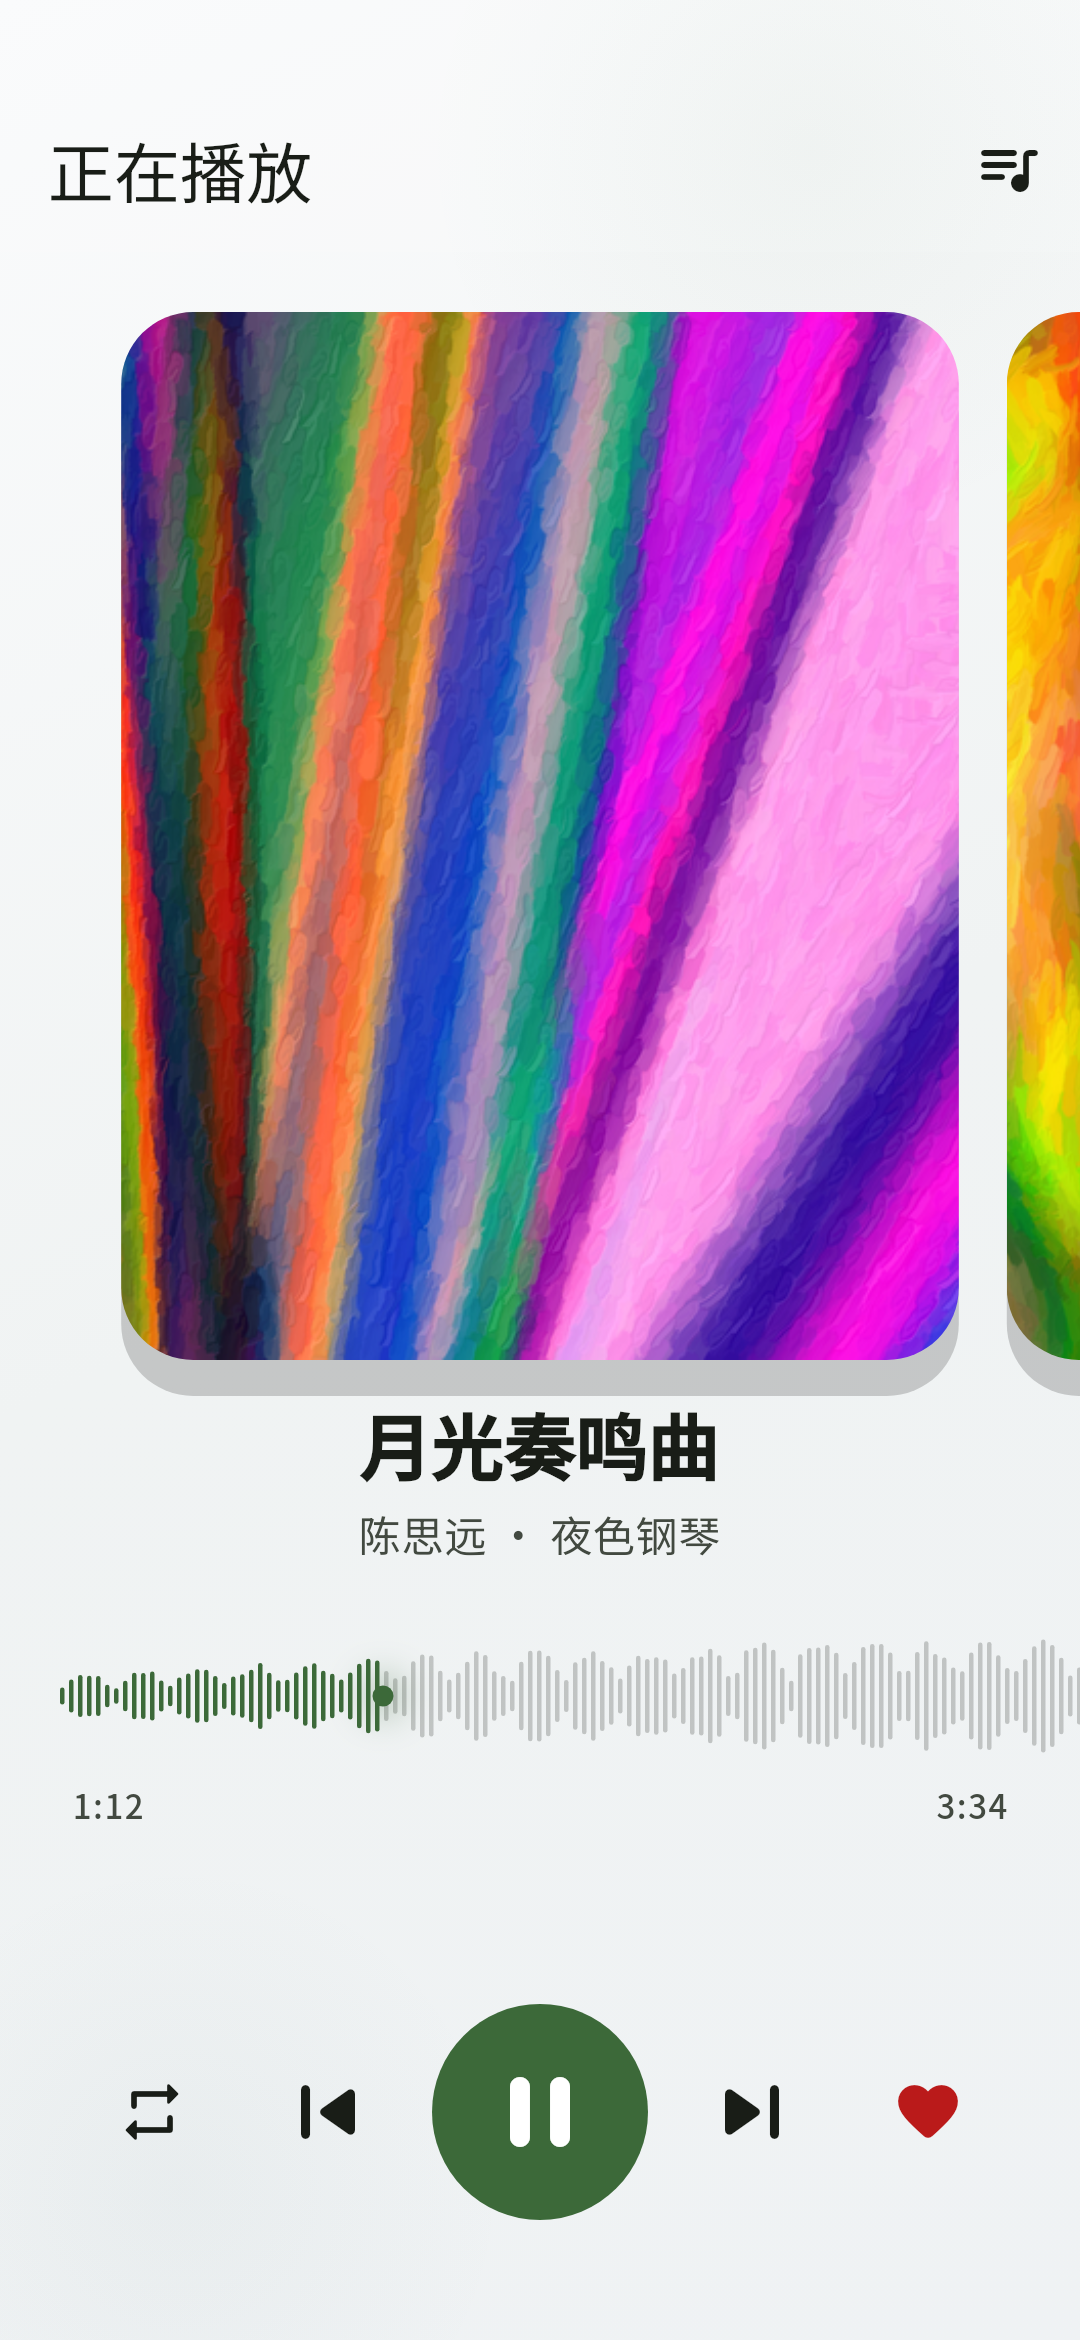
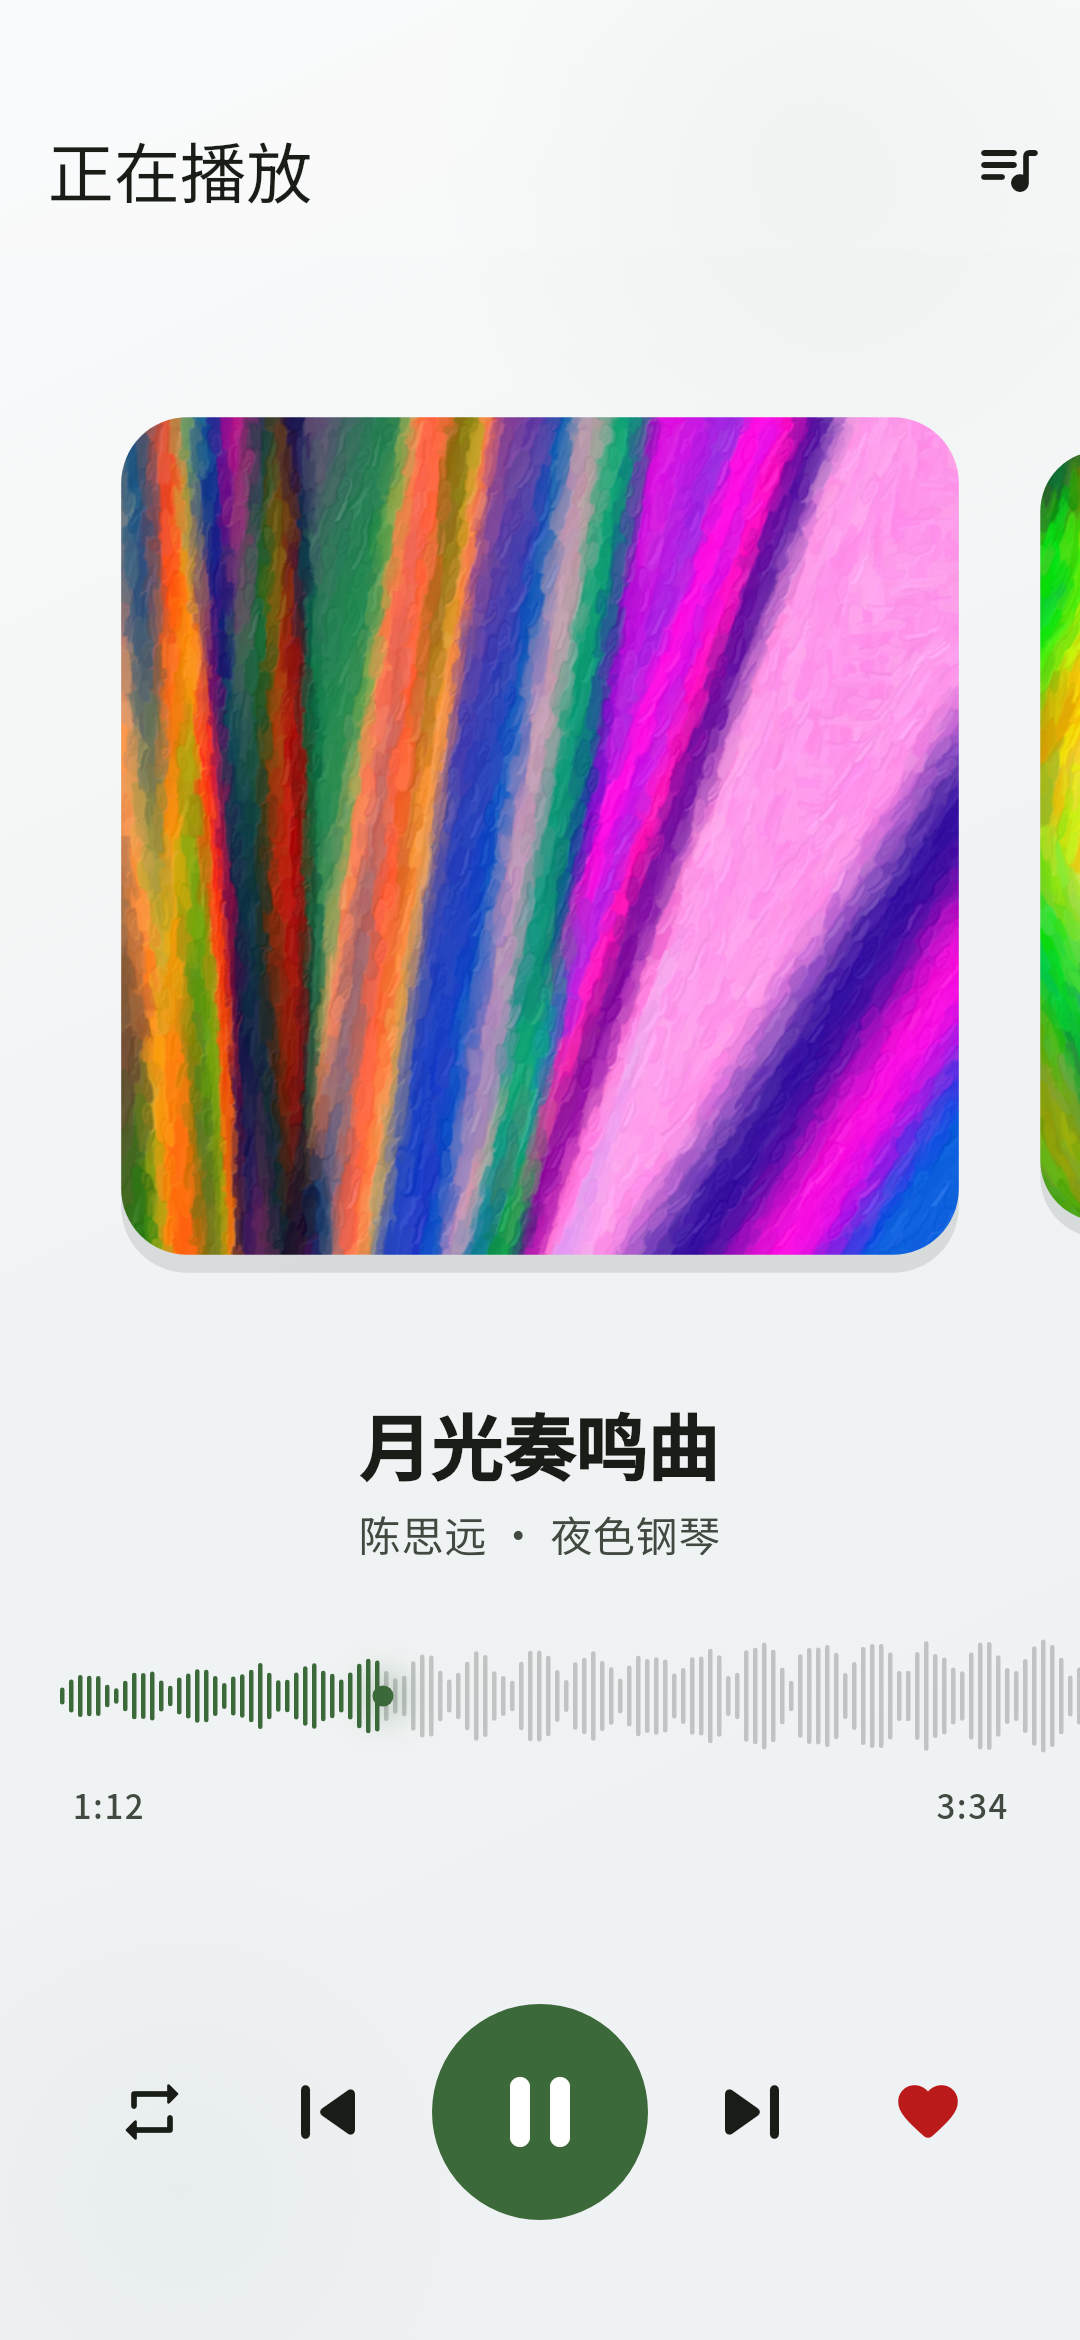
fix(music): Now Playing 纯正方封面、去黑底与 OLED 真黑

diff --git a/lib/music/ui/now_playing_page.dart b/lib/music/ui/now_playing_page.dart
@@ -1,3 +1,4 @@
+import 'dart:math' as math;
 import 'dart:typed_data';
 
 import 'package:flutter/material.dart';
@@ -100,6 +101,7 @@ class _NowPlayingPageState extends ConsumerState<NowPlayingPage> {
     final peaks = peakKey == null ? null : _peakCache[peakKey];
 
     return GlassScaffoldBackground(
+      oledTrueBlack: true,
       child: Scaffold(
         backgroundColor: Colors.transparent,
         appBar: GlassAppBar(
@@ -119,40 +121,53 @@ class _NowPlayingPageState extends ConsumerState<NowPlayingPage> {
                   children: [
                     const SizedBox(height: 8),
                     // Large cover carousel (Harmonoid) — swipe = prev/next.
+                    // Explicit square geometry (not AspectRatio-in-tall-slot).
                     Expanded(
                       flex: 5,
-                      child: PageView.builder(
-                        controller: _pageController,
-                        itemCount: queue.length,
-                        onPageChanged: (i) async {
-                          if (i == index) return;
-                          final h = await ref.read(musicHandlerProvider.future);
-                          await h.playTrackAt(i);
-                        },
-                        itemBuilder: (context, i) {
-                          final t = queue[i];
-                          return Padding(
-                            padding: const EdgeInsets.symmetric(
-                              horizontal: 8,
-                              vertical: 12,
-                            ),
-                            child: GestureDetector(
-                              onDoubleTap: () async {
-                                await ref
-                                    .read(musicLibraryProvider.notifier)
-                                    .toggleFavorite(t);
-                                if (context.mounted) {
-                                  ScaffoldMessenger.of(context).showSnackBar(
-                                    SnackBar(
-                                      content: Text(
-                                        t.isFavorite ? ms.unfavorite : ms.favorite,
-                                      ),
-                                    ),
-                                  );
-                                }
-                              },
-                              child: _HeroCover(path: t.coverPath),
-                            ),
+                      child: LayoutBuilder(
+                        builder: (context, constraints) {
+                          return PageView.builder(
+                            controller: _pageController,
+                            itemCount: queue.length,
+                            onPageChanged: (i) async {
+                              if (i == index) return;
+                              final h =
+                                  await ref.read(musicHandlerProvider.future);
+                              await h.playTrackAt(i);
+                            },
+                            itemBuilder: (context, i) {
+                              final t = queue[i];
+                              final active = i == index;
+                              return Padding(
+                                padding:
+                                    const EdgeInsets.symmetric(horizontal: 8),
+                                child: GestureDetector(
+                                  onDoubleTap: () async {
+                                    await ref
+                                        .read(musicLibraryProvider.notifier)
+                                        .toggleFavorite(t);
+                                    if (context.mounted) {
+                                      ScaffoldMessenger.of(context)
+                                          .showSnackBar(
+                                        SnackBar(
+                                          content: Text(
+                                            t.isFavorite
+                                                ? ms.unfavorite
+                                                : ms.favorite,
+                                          ),
+                                        ),
+                                      );
+                                    }
+                                  },
+                                  child: _HeroCover(
+                                    path: t.coverPath,
+                                    active: active,
+                                    slotWidth: constraints.maxWidth,
+                                    slotHeight: constraints.maxHeight,
+                                  ),
+                                ),
+                              );
+                            },
                           );
                         },
                       ),
@@ -338,44 +353,72 @@ class _NowPlayingPageState extends ConsumerState<NowPlayingPage> {
   }
 }
 
+/// Strict 1:1 cover floated on the theme canvas — no black tray / heavy shadow.
 class _HeroCover extends StatelessWidget {
-  const _HeroCover({required this.path});
+  const _HeroCover({
+    required this.path,
+    required this.active,
+    required this.slotWidth,
+    required this.slotHeight,
+  });
+
   final String? path;
+  final bool active;
+  final double slotWidth;
+  final double slotHeight;
 
   @override
   Widget build(BuildContext context) {
     final cs = Theme.of(context).colorScheme;
-    return AspectRatio(
-      aspectRatio: 1,
-      child: DecoratedBox(
-        decoration: BoxDecoration(
-          borderRadius: BorderRadius.circular(24),
-          boxShadow: [
-            BoxShadow(
-              color: cs.shadow.withValues(
-                alpha: Theme.of(context).brightness == Brightness.dark
-                    ? 0.45
-                    : 0.18,
-              ),
-              blurRadius: 24,
-              offset: const Offset(0, 12),
-            ),
-          ],
-        ),
-        child: ClipRRect(
-          borderRadius: BorderRadius.circular(24),
-          child: CoverImage(
-            path: path,
-            placeholder: ColoredBox(
-              color: cs.primaryContainer,
+    final isDark = Theme.of(context).brightness == Brightness.dark;
+    // PageView page width ≈ viewportFraction * slot; keep square in remaining height.
+    final pageWidth = slotWidth * 0.82 - 16; // viewportFraction + horizontal pad
+    final side = math.min(pageWidth, slotHeight).clamp(0.0, double.infinity);
+    final scale = active ? 1.0 : 0.92;
+
+    Widget cover = SizedBox(
+      width: side,
+      height: side,
+      child: ClipRRect(
+        borderRadius: BorderRadius.circular(22),
+        child: CoverImage(
+          path: path,
+          fit: BoxFit.cover,
+          placeholder: ColoredBox(
+            color: cs.primaryContainer,
+            child: Center(
               child: Icon(
                 Icons.album_rounded,
-                size: 96,
+                size: side * 0.28,
                 color: cs.onPrimaryContainer.withValues(alpha: 0.7),
               ),
             ),
           ),
         ),
+      ),
+    );
+
+    // Light mode only: hairline soft lift. Dark/OLED: no shadow tray.
+    if (!isDark) {
+      cover = DecoratedBox(
+        decoration: BoxDecoration(
+          borderRadius: BorderRadius.circular(22),
+          boxShadow: [
+            BoxShadow(
+              color: cs.shadow.withValues(alpha: 0.10),
+              blurRadius: 14,
+              offset: const Offset(0, 6),
+            ),
+          ],
+        ),
+        child: cover,
+      );
+    }
+
+    return Center(
+      child: Transform.scale(
+        scale: scale,
+        child: cover,
       ),
     );
   }

diff --git a/lib/presentation/widgets/glass_scaffold_bg.dart b/lib/presentation/widgets/glass_scaffold_bg.dart
@@ -7,57 +7,73 @@ import '../../core/theme/app_theme.dart';
 /// Light mode uses neutral cool whites with a very light primary/tertiary tint.
 /// Dark mode stays near-black cool neutrals — seed primary/tertiary only whisper
 /// so a green seed does not turn the canvas into mud.
+///
+/// Pass [oledTrueBlack] on fullscreen music pages (Now Playing, etc.) so dark
+/// mode uses pure `#000000` with no colored wash orbs — better for OLED (G8).
 class GlassScaffoldBackground extends StatelessWidget {
-  const GlassScaffoldBackground({super.key, required this.child});
+  const GlassScaffoldBackground({
+    super.key,
+    required this.child,
+    this.oledTrueBlack = false,
+  });
 
   final Widget child;
+
+  /// Dark-only: pure black canvas, no gradient tint / wash orbs.
+  final bool oledTrueBlack;
 
   @override
   Widget build(BuildContext context) {
     final cs = Theme.of(context).colorScheme;
     final isDark = Theme.of(context).brightness == Brightness.dark;
+    final trueBlack = oledTrueBlack && isDark;
+    final base = trueBlack ? AppTheme.oledBlack : (isDark ? AppTheme.darkCanvas : AppTheme.lightCanvas);
+
     return Stack(
       fit: StackFit.expand,
       children: [
         // Solid base first — prevents a white flash if the gradient rebuilds
         // during ThemeMode switches (tab content fades over this canvas).
-        ColoredBox(color: isDark ? AppTheme.darkCanvas : AppTheme.lightCanvas),
-        DecoratedBox(
-          decoration: BoxDecoration(
-            gradient: LinearGradient(
-              begin: Alignment.topLeft,
-              end: Alignment.bottomRight,
-              colors: isDark
-                  ? [
-                      AppTheme.darkCanvas,
-                      Color.lerp(AppTheme.darkContainerLow, cs.primary, 0.055)!,
-                      Color.lerp(AppTheme.darkCanvas, cs.tertiary, 0.035)!,
-                    ]
-                  : [
-                      AppTheme.lightCanvas,
-                      Color.lerp(AppTheme.lightCanvasMid, cs.primary, 0.035)!,
-                      Color.lerp(AppTheme.lightCanvasDeep, cs.tertiary, 0.03)!,
-                    ],
+        ColoredBox(color: base),
+        if (!trueBlack)
+          DecoratedBox(
+            decoration: BoxDecoration(
+              gradient: LinearGradient(
+                begin: Alignment.topLeft,
+                end: Alignment.bottomRight,
+                colors: isDark
+                    ? [
+                        AppTheme.darkCanvas,
+                        Color.lerp(AppTheme.darkContainerLow, cs.primary, 0.055)!,
+                        Color.lerp(AppTheme.darkCanvas, cs.tertiary, 0.035)!,
+                      ]
+                    : [
+                        AppTheme.lightCanvas,
+                        Color.lerp(AppTheme.lightCanvasMid, cs.primary, 0.035)!,
+                        Color.lerp(AppTheme.lightCanvasDeep, cs.tertiary, 0.03)!,
+                      ],
+              ),
             ),
           ),
-        ),
-        // Gentle wash orbs — restrained alpha (especially dark).
-        Positioned(
-          top: -80,
-          right: -40,
-          child: _WashOrb(
-            diameter: 260,
-            color: cs.primary.withValues(alpha: isDark ? 0.07 : 0.045),
+        // Gentle wash orbs — restrained alpha (especially dark). Skipped on OLED.
+        if (!trueBlack) ...[
+          Positioned(
+            top: -80,
+            right: -40,
+            child: _WashOrb(
+              diameter: 260,
+              color: cs.primary.withValues(alpha: isDark ? 0.07 : 0.045),
+            ),
           ),
-        ),
-        Positioned(
-          bottom: -60,
-          left: -50,
-          child: _WashOrb(
-            diameter: 220,
-            color: cs.tertiary.withValues(alpha: isDark ? 0.05 : 0.04),
+          Positioned(
+            bottom: -60,
+            left: -50,
+            child: _WashOrb(
+              diameter: 220,
+              color: cs.tertiary.withValues(alpha: isDark ? 0.05 : 0.04),
+            ),
           ),
-        ),
+        ],
         child,
       ],
     );

diff --git a/lib/core/theme/app_theme.dart b/lib/core/theme/app_theme.dart
@@ -33,15 +33,18 @@ class AppTheme {
   static const Color lightCanvasMid = Color(0xFFF7F8FA);
   static const Color lightCanvasDeep = Color(0xFFF5F6F8);
 
-  /// Near-black cool scaffold (not pure #000).
-  static const Color darkCanvas = Color(0xFF0E1012);
-  static const Color darkSurfaceDim = Color(0xFF0A0C0E);
-  static const Color darkSurfaceBright = Color(0xFF1A1D21);
-  static const Color darkContainerLowest = Color(0xFF090B0D);
-  static const Color darkContainerLow = Color(0xFF14171A);
-  static const Color darkContainer = Color(0xFF191C20);
-  static const Color darkContainerHigh = Color(0xFF1F2328);
-  static const Color darkContainerHighest = Color(0xFF252A30);
+  /// OLED true black — Now Playing / fullscreen music canvases.
+  static const Color oledBlack = Color(0xFF000000);
+
+  /// Near-true-black cool scaffold (OLED-friendly; cards use elevated containers).
+  static const Color darkCanvas = Color(0xFF000000);
+  static const Color darkSurfaceDim = Color(0xFF000000);
+  static const Color darkSurfaceBright = Color(0xFF16191D);
+  static const Color darkContainerLowest = Color(0xFF000000);
+  static const Color darkContainerLow = Color(0xFF121518);
+  static const Color darkContainer = Color(0xFF181B1F);
+  static const Color darkContainerHigh = Color(0xFF1E2227);
+  static const Color darkContainerHighest = Color(0xFF24292F);
   static const Color darkOnSurface = Color(0xFFE6E8EB);
   static const Color darkOnSurfaceVariant = Color(0xFFB0B6BE);
   static const Color darkOutline = Color(0xFF8A9099);
@@ -404,7 +407,7 @@ class GlassSurface extends StatelessWidget {
     final isDark = Theme.of(context).brightness == Brightness.dark;
     // Content cards: low frost so BackdropFilter reads against the wash.
     // Chrome/AppBar should pass a lower [opacity] (~0.06–0.10).
-    final fillAlpha = opacity ?? (isDark ? 0.09 : 0.14);
+    final fillAlpha = opacity ?? (isDark ? 0.06 : 0.14);
     final fill = Colors.white.withValues(alpha: fillAlpha.clamp(0.0, 1.0));
     // Light white rim (not dark hairline) — reads as glass edge on tinted wash.
     final stroke = isDark
@@ -492,7 +495,8 @@ class GlassAppBar extends StatelessWidget implements PreferredSizeWidget {
         border: false,
         elevate: false,
         // Chrome: lower than content cards so it does not double-stack frost.
-        opacity: isDark ? 0.05 : 0.08,
+        // Lower frost on dark so pure-black OLED scaffolds stay black.
+        opacity: isDark ? 0.03 : 0.08,
         child: const SizedBox.expand(),
       ),
     );

diff --git a/lib/music/ui/playlist_detail_page.dart b/lib/music/ui/playlist_detail_page.dart
@@ -19,6 +19,7 @@ class PlaylistDetailPage extends ConsumerWidget {
     final match = playlists.where((p) => p.id == playlistId).toList();
     if (match.isEmpty) {
       return GlassScaffoldBackground(
+        oledTrueBlack: true,
         child: Scaffold(
           backgroundColor: Colors.transparent,
           appBar: GlassAppBar(title: Text(ms.playlists)),
@@ -35,6 +36,7 @@ class PlaylistDetailPage extends ConsumerWidget {
     ];
 
     return GlassScaffoldBackground(
+      oledTrueBlack: true,
       child: Scaffold(
         backgroundColor: Colors.transparent,
         appBar: GlassAppBar(title: Text(playlist.name)),

diff --git a/lib/music/ui/artist_detail_page.dart b/lib/music/ui/artist_detail_page.dart
@@ -17,6 +17,7 @@ class ArtistDetailPage extends ConsumerWidget {
     final ms = ref.watch(musicStringsProvider);
 
     return GlassScaffoldBackground(
+      oledTrueBlack: true,
       child: Scaffold(
         backgroundColor: Colors.transparent,
         appBar: GlassAppBar(title: Text(artist.name)),

diff --git a/lib/music/ui/album_detail_page.dart b/lib/music/ui/album_detail_page.dart
@@ -19,6 +19,7 @@ class AlbumDetailPage extends ConsumerWidget {
     final cs = Theme.of(context).colorScheme;
 
     return GlassScaffoldBackground(
+      oledTrueBlack: true,
       child: Scaffold(
         backgroundColor: Colors.transparent,
         appBar: GlassAppBar(title: Text(album.name)),
